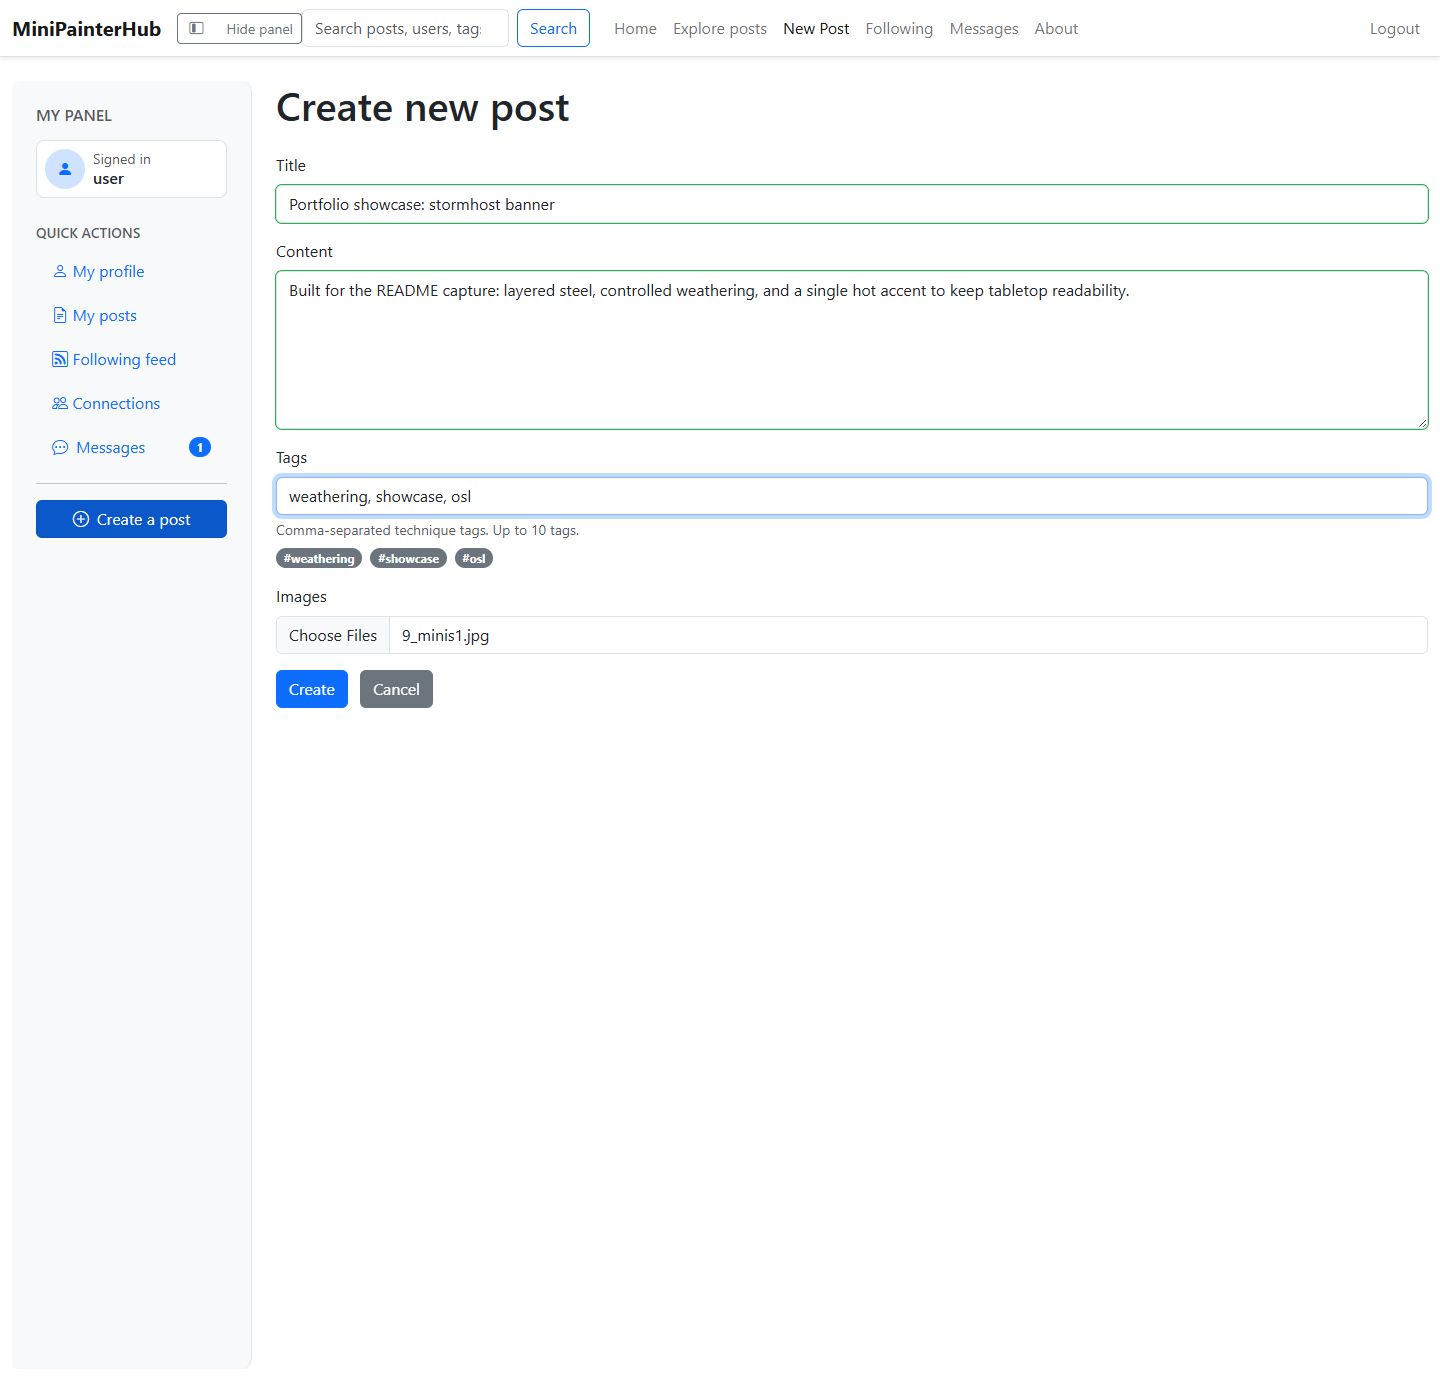
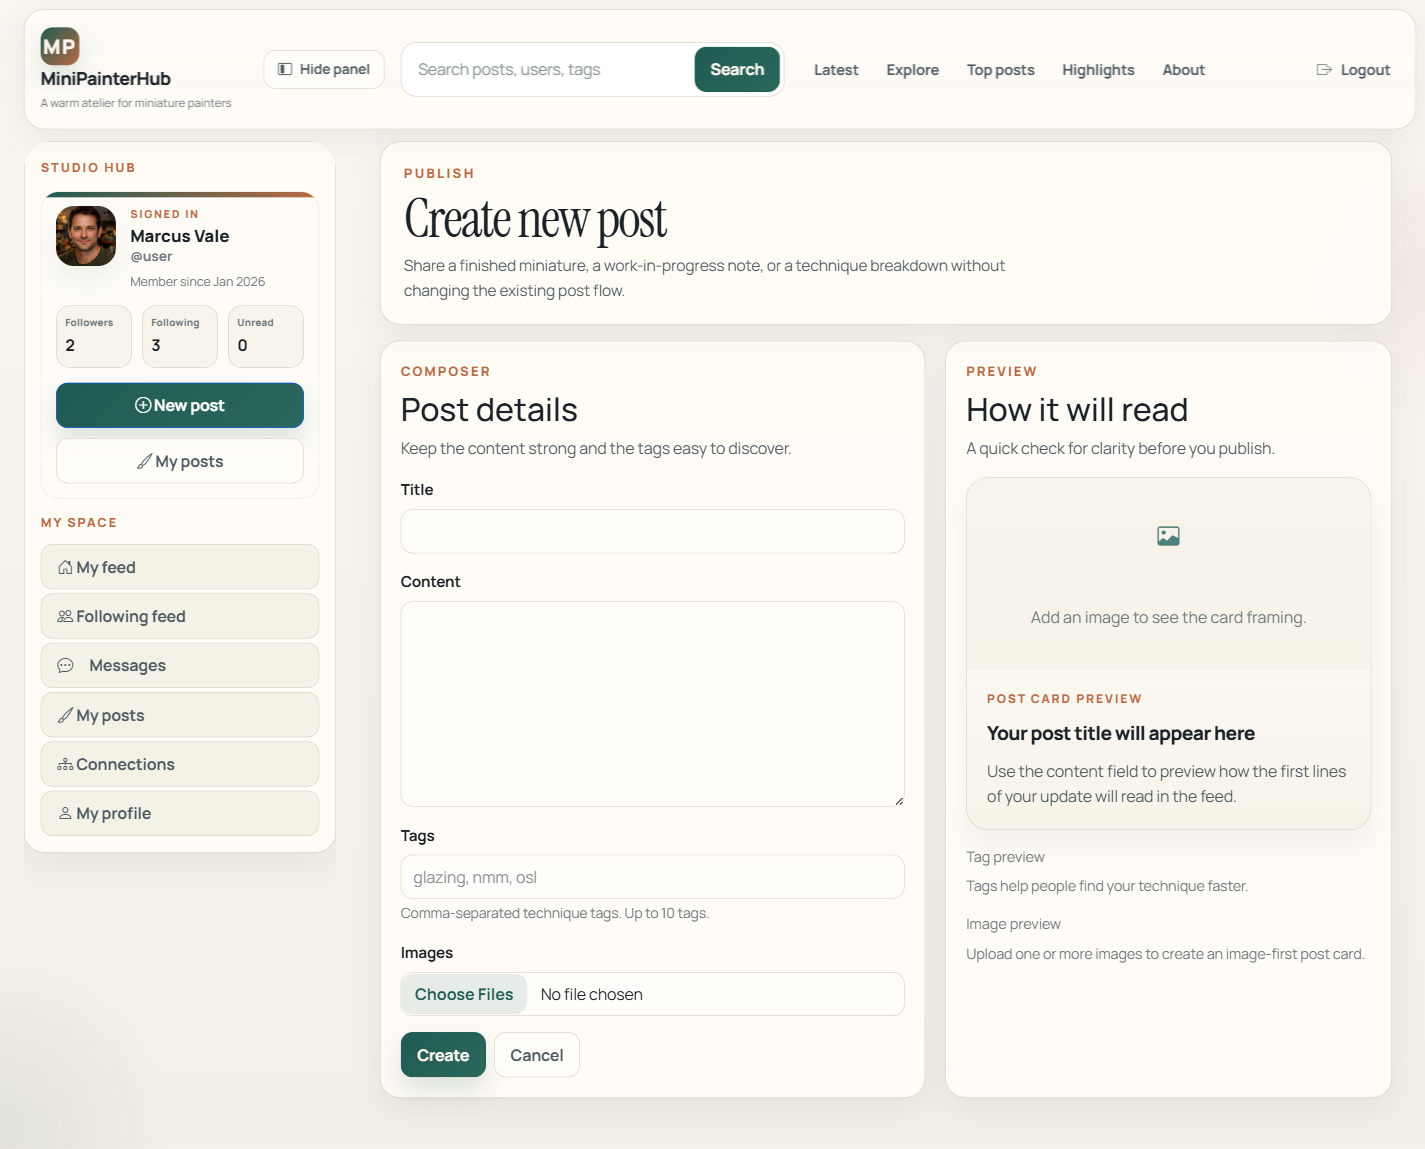
Refresh README screenshot tour for current UI

diff --git a/README.md b/README.md
@@ -4,7 +4,7 @@ MiniPainterHub is a full-stack social platform for miniature painters. It combin
 
 This repository is portfolio-oriented as much as it is product-oriented: it shows end-to-end feature work across API design, Blazor UI, authentication, real-time messaging, media handling, moderation workflows, and automated quality gates.
 
-Screenshots in this README were captured with Playwright-MCP against a deterministic seeded development dataset.
+Screenshots in this README were captured with Playwright-MCP against a deterministic seeded development dataset and refreshed to match the current UI.
 
 ## What It Demonstrates
 
@@ -21,41 +21,49 @@ Screenshots in this README were captured with Playwright-MCP against a determini
 
 ## Screenshot Tour
 
+The tour below uses the deterministic seeded portfolio dataset and reflects the current shell, painter workflow, rich viewer, and moderation surfaces.
+
 ### 1. Latest feed
 
-The home feed surfaces image-first post cards, technique tags, author metadata, and quick engagement counts.
+The home feed now uses the current atelier shell, a left studio hub, and image-first post cards with quick access to tags, comments, and likes.
 
 ![Latest feed](docs/screenshots/portfolio/01-home-feed.png)
 
 ### 2. Post composer
 
-Posts can be authored with long-form content, uploaded images, and comma-separated technique tags.
+Posts are authored from a two-column composer with content inputs on the left and a live readability preview on the right.
 
 ![Post composer](docs/screenshots/portfolio/02-create-post.png)
 
-### 3. Post details and rich viewing
+### 3. Post details
 
-Each post has a detail flow with media, tags, comments, likes, reporting actions, and the foundation for a richer image-viewing experience.
+The post details page combines the gallery preview, tag metadata, viewer state, and inline conversation in one route before you step into the overlay.
 
 ![Post details](docs/screenshots/portfolio/03-post-details.png)
 
-### 4. Discovery search
+### 4. Rich viewer
 
-Search supports posts, users, and tags, making it easy to move from a technique to the painters using it.
+The rich viewer adds a dedicated stage, zoom controls, fullscreen support, preview rail, and a side panel for post metadata and comment-mark context.
 
-![Search results](docs/screenshots/portfolio/04-search-discovery.png)
+![Rich viewer](docs/screenshots/portfolio/04-rich-viewer.png)
 
-### 5. Direct messages
+### 5. Discovery search
 
-Seeded conversations and SignalR-backed messaging give the platform a real social layer beyond comments.
+Search pivots across posts, users, and tags inside the same visual shell, with clearer grouping and result summaries for a technique query.
 
-![Direct messages](docs/screenshots/portfolio/05-messages.png)
+![Search results](docs/screenshots/portfolio/05-search-discovery.png)
 
-### 6. Admin reports queue
+### 6. Direct messages
 
-Admins can review incoming reports, filter moderation work, and resolve issues from a dedicated queue.
+The messaging surface pairs the inbox with a larger reading pane and an explicit empty state that guides painters into profile-based conversations.
 
-![Reports queue](docs/screenshots/portfolio/06-admin-reports.png)
+![Direct messages](docs/screenshots/portfolio/06-messages.png)
+
+### 7. Moderation reports queue
+
+Admins can review the reports queue from the same shell, filter by status/target/reason, and work from a cleaner moderation-focused empty or populated state.
+
+![Reports queue](docs/screenshots/portfolio/07-admin-reports.png)
 
 ## Feature Overview
 
